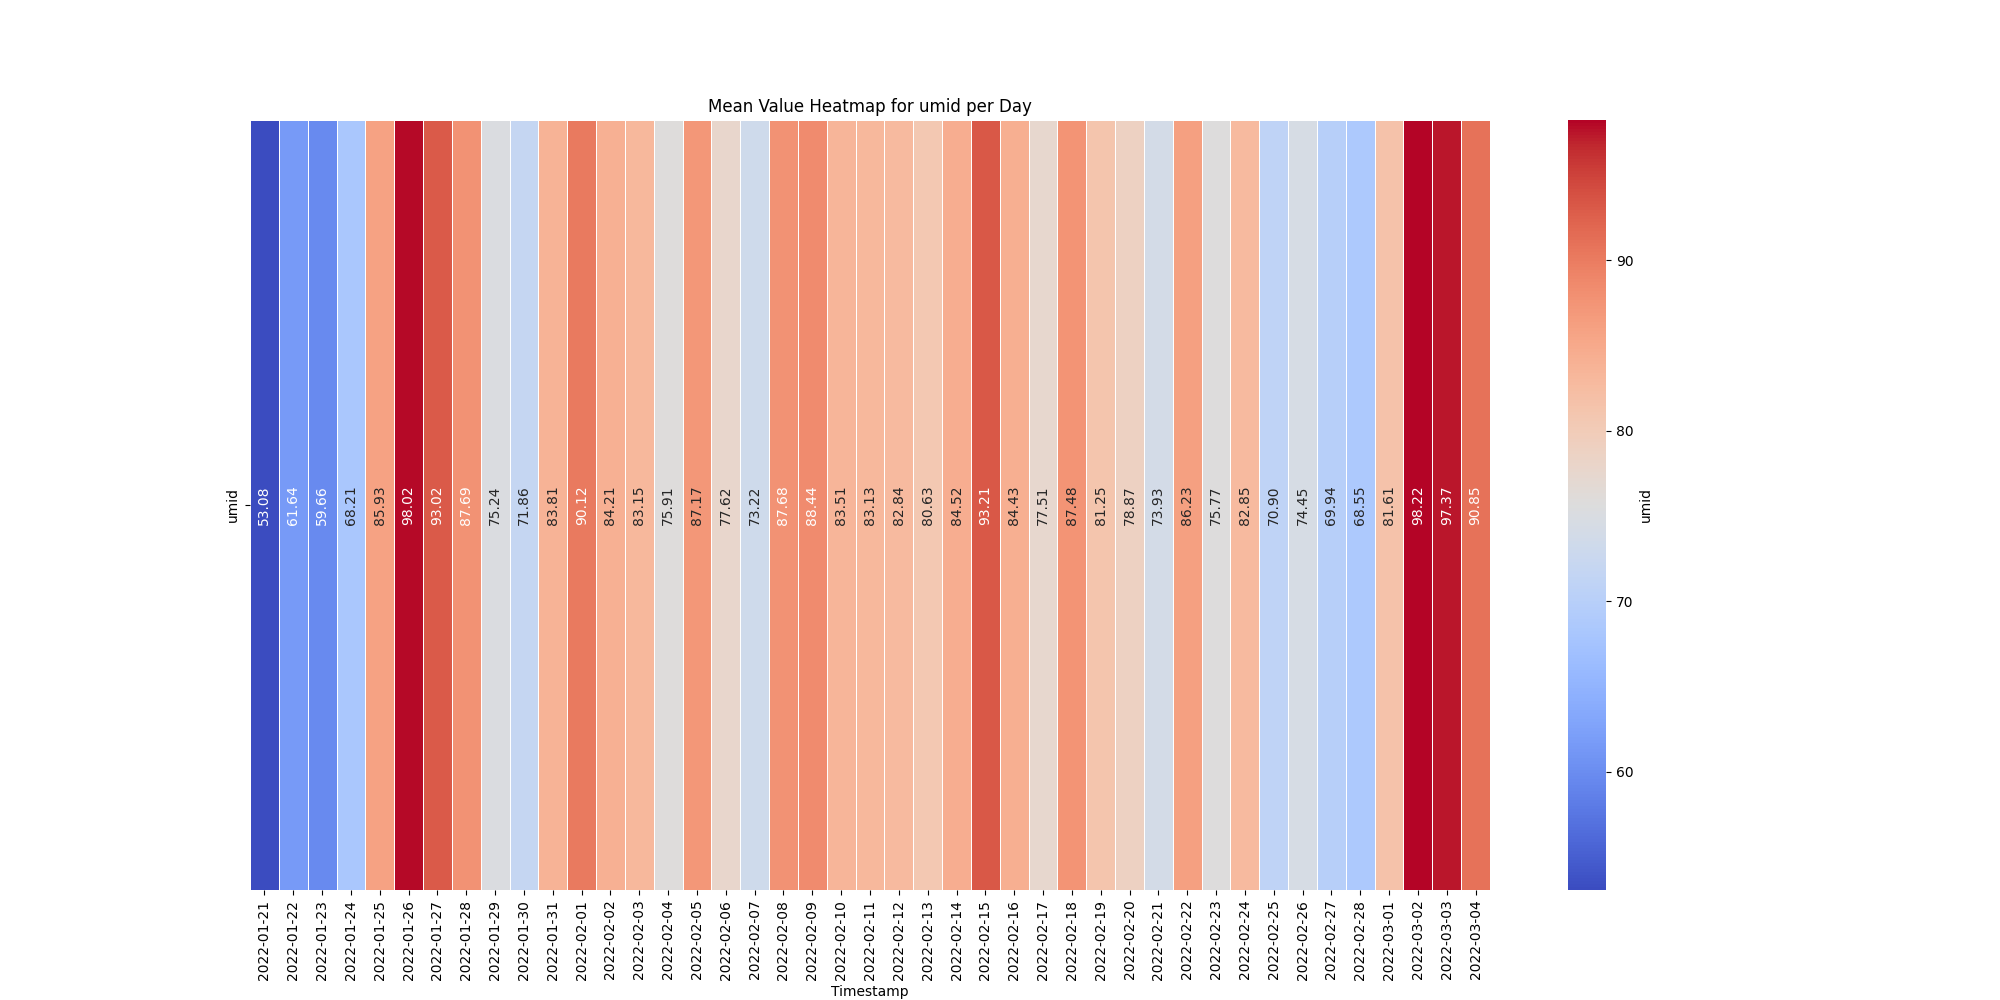
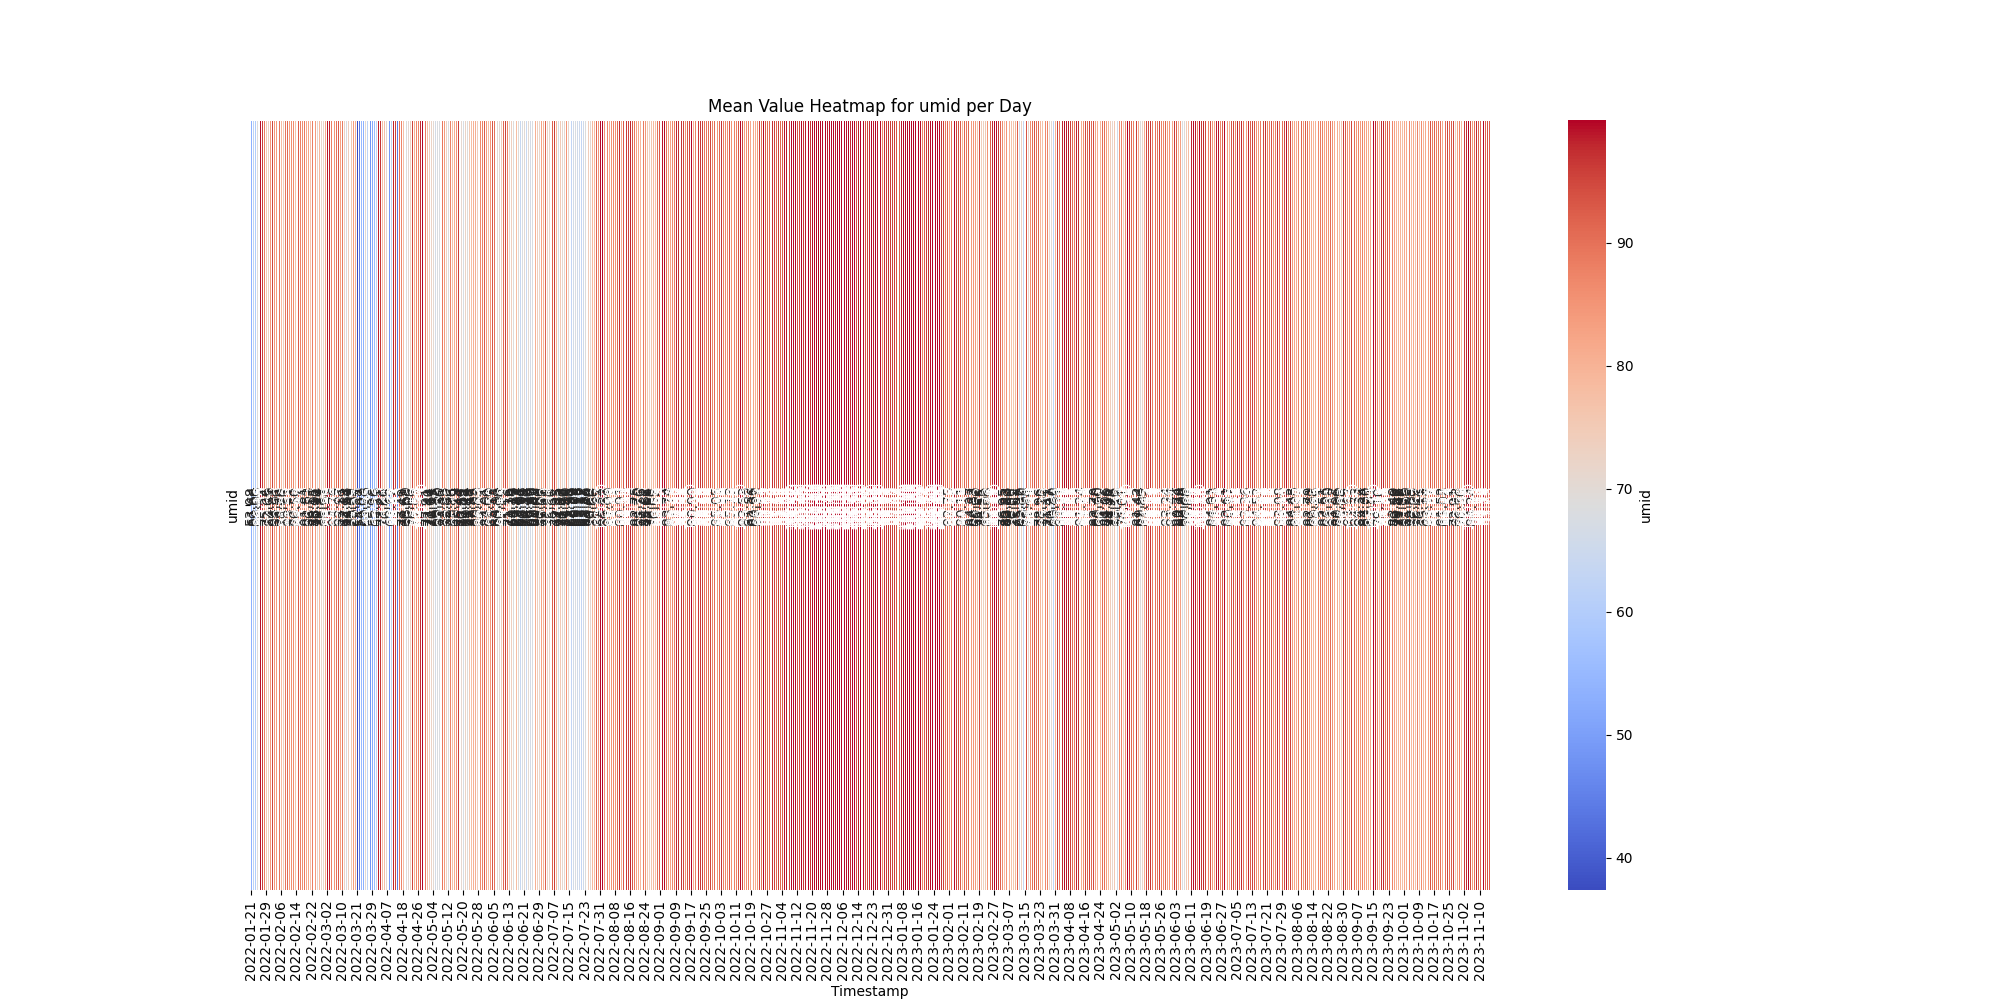
fixed outliers for boxplots, implementet feature selection for all

diff --git a/tema1.py b/tema1.py
@@ -13,7 +13,16 @@ def load_data(file_path):
 def preprocess_data(df):
     # Drop the hours from the Timestamp column
     df['Timestamp'] = df['Timestamp'].dt.date
+    return df
 
+def preprocess_data_IQR(df):
+    # Drop the hours from the Timestamp column
+    df['Timestamp'] = df['Timestamp'].dt.date
+
+    Q1 = df.quantile(0.25)
+    Q3 = df.quantile(0.75)
+    IQR = Q3 - Q1
+    df = df[~((df < (Q1 - 1.5 * IQR)) | (df > (Q3 + 1.5 * IQR))).any(axis=1)]
     return df
 
 
@@ -24,8 +33,7 @@ def calculate_heatmaps(df):
     for param in df.columns:
         if param != 'Timestamp':
             plt.figure(figsize=(20, 10))
-            ax = sns.heatmap(means[[param]].T, cmap='coolwarm', annot=True, fmt=".2f", linewidths=.5,
-                             cbar_kws={'label': param}, annot_kws={'rotation': 0})
+            ax = sns.heatmap(means[[param]].T, cmap='coolwarm', annot=True, fmt=".2f", linewidths=.5, cbar_kws={'label': param}, annot_kws={'rotation': 0})
             plt.title(f'Mean Value Heatmap for {param} per Day')
             for text in ax.texts:
                 text.set_rotation('vertical')
@@ -33,8 +41,7 @@ def calculate_heatmaps(df):
             plt.close()
 
             plt.figure(figsize=(20, 10))
-            ax = sns.heatmap(medians[[param]].T, cmap='coolwarm', annot=True, fmt=".2f", linewidths=.5,
-                             cbar_kws={'label': param}, annot_kws={'rotation': 0})
+            ax = sns.heatmap(medians[[param]].T, cmap='coolwarm', annot=True, fmt=".2f", linewidths=.5, cbar_kws={'label': param}, annot_kws={'rotation': 0})
             plt.title(f'Median Value Heatmap for {param} per Day')
             for text in ax.texts:
                 text.set_rotation('vertical')
@@ -68,66 +75,63 @@ def feature_selection(df, correlation_threshold=0.8):
     return df
 
 
-def calculate_boxplots(df):
+def calculate_boxplots(df, has_outliers=True):
     for param in df.columns:
         if param != 'Timestamp':
-
-            # Continue with the existing code for boxplots
-            Q1 = df[param].quantile(0.25)
-            Q3 = df[param].quantile(0.75)
-            IQR = Q3 - Q1
-            filter_condition = (df[param] >= Q1 - 1.5 * IQR) & (df[param] <= Q3 + 1.5 * IQR)
-            df_no_outliers = df.loc[filter_condition]
-
             plt.figure(figsize=(20, 10))
-            sns.boxplot(x=df_no_outliers[param])
-            plt.title(f'Boxplot for {param} without Outliers (IQR Method)')
+            if has_outliers:
+                sns.boxplot(x=df[param], showfliers=True)
+            else:
+                sns.boxplot(x=df[param], showfliers=False)
+            if has_outliers:
+                plt.title(f'Boxplot for {param} with Outliers')
+            else:
+                plt.title(f'Boxplot for {param} with NO Outliers')
             plt.xlabel(param)
 
-            plt.savefig(os.path.join("./boxplots", f'boxplot_{param}_no_outliers.png'))
+            if has_outliers:
+                plt.savefig(os.path.join("./boxplots", f'boxplot_{param}.png'))
+            else:
+                plt.savefig(os.path.join("./boxplots", f'boxplot_{param}_no_outl.png'))
+
             plt.close()
 
 
-
-
-
-
-
-def calculate_correlation_matrix(df):
+def calculate_correlation_matrix(df, has_correlating_inputs=True):
     numeric_columns = df.select_dtypes(include='number')
 
     corr_matrix = numeric_columns.corr()
-
     output_dir = "./correlation_matrix"
     os.makedirs(output_dir, exist_ok=True)
+    if has_correlating_inputs:
 
-    plt.figure(figsize=(15, 10))
-    sns.heatmap(corr_matrix, annot=True, cmap='coolwarm', fmt=".2f", linewidths=.5,
-                cbar_kws={'label': 'Correlation Coefficient'})
-    plt.title('Correlation Matrix Heatmap')
+        plt.figure(figsize=(15, 10))
+        sns.heatmap(corr_matrix, annot=True, cmap='coolwarm', fmt=".2f", linewidths=.5,
+                    cbar_kws={'label': 'Correlation Coefficient'})
+        plt.title('Correlation Matrix Heatmap')
 
-    output_path = os.path.join(output_dir, 'correlation_heatmap.png')
-    plt.savefig(output_path)
-    plt.close()
+        output_path = os.path.join(output_dir, 'correlation_heatmap_with_correlating_inputs.png')
+        plt.savefig(output_path)
+        plt.close()
+    else:
+        plt.figure(figsize=(15, 10))
+        sns.heatmap(corr_matrix, annot=True, cmap='coolwarm', fmt=".2f", linewidths=.5,
+                    cbar_kws={'label': 'Correlation Coefficient'})
+        plt.title('Correlation Matrix Heatmap')
 
-    direct_correlations = corr_matrix.unstack().sort_values(ascending=False).drop_duplicates()
-    inverse_correlations = corr_matrix.unstack().sort_values(ascending=True).drop_duplicates()
-    #comment these cand vrei sa eliberezi consola
-    # print("Top 5 Direct Correlations:")
-    # print(direct_correlations.head(5))
-    #
-    # print("\nTop 5 Inverse Correlations:")
-    # print(inverse_correlations.head(5))
+        output_path = os.path.join(output_dir, 'correlation_heatmap.png')
+        plt.savefig(output_path)
+        plt.close()
 
 
 if __name__ == '__main__':
-    file_path = "./SensorMLDataset_small.csv"
+    file_path = "./SensorMLDataset.csv"
     df = load_data(file_path)
-    df = preprocess_data(df)
-    df = feature_selection(df, correlation_threshold=0.8)
-    # Save the modified DataFrame to a new CSV file
-    new_csv_path = "./SensorMLDataset_small_modified.csv"
-    df.to_csv(new_csv_path, index=False)
+
+    df = preprocess_data_IQR(df)
+    calculate_correlation_matrix(df, has_correlating_inputs=True)
+    df = feature_selection(df, correlation_threshold=0.80)
+    calculate_correlation_matrix(df, has_correlating_inputs=False)
+    calculate_boxplots(df, False)
     calculate_heatmaps(df)
-    calculate_boxplots(df)
-    calculate_correlation_matrix(df)
+

diff --git a/lstm.py b/lstm.py
@@ -5,11 +5,37 @@ import pandas as pd
 import tensorflow as tf
 from sklearn.metrics import mean_absolute_error
 import os
+
+def feature_selection(df, correlation_threshold=0.8):
+    numeric_columns = df.select_dtypes(include='number')
+    corr_matrix = numeric_columns.corr()
+
+    # Identify parameters with correlations above the threshold
+    high_correlation_pairs = [(col1, col2, corr)
+                              for col1 in corr_matrix.columns
+                              for col2 in corr_matrix.columns
+                              if col1 < col2 and abs(corr := corr_matrix.loc[col1, col2]) > correlation_threshold]
+
+    # Create a set to store variables to drop
+    variables_to_drop = set()
+
+    for col1, col2, _ in high_correlation_pairs:
+        # Add the variable with a higher number of missing values to the set
+        if df[col1].isnull().sum() > df[col2].isnull().sum():
+            variables_to_drop.add(col2)
+        else:
+            variables_to_drop.add(col1)
+
+    # Drop the variables with high correlations and more missing values
+    df.drop(variables_to_drop, axis=1, inplace=True)
+    print(variables_to_drop)
+    return df
 def split_data(file_path):
     # The data is not randomly shuffled:
     # It ensures that chopping the data into windows of consecutive samples is still possible.
 
     df = pd.read_csv(file_path)
+    df=feature_selection(df)
     date_time = pd.to_datetime(df.pop('Timestamp'),format='%m/%d/%Y %H:%M')
     print(df.shape[1]) # number of features (Timestamp is not a fetaure)
     n = len(df)
@@ -203,6 +229,8 @@ if __name__ == '__main__':
     test_df = (test_df - train_mean) / train_std
 
     df = pd.read_csv(file_path)
+
+    df=feature_selection(df)
 
     ### Save the average MAE for every param
     average_mae_per_param = []

diff --git a/prophet_analysis.py b/prophet_analysis.py
@@ -6,7 +6,35 @@ from matplotlib import pyplot as plt
 from sklearn.preprocessing import MinMaxScaler
 import os
 
+
+def feature_selection(df, correlation_threshold=0.8):
+    numeric_columns = df.select_dtypes(include='number')
+    corr_matrix = numeric_columns.corr()
+
+    # Identify parameters with correlations above the threshold
+    high_correlation_pairs = [(col1, col2, corr)
+                              for col1 in corr_matrix.columns
+                              for col2 in corr_matrix.columns
+                              if col1 < col2 and abs(corr := corr_matrix.loc[col1, col2]) > correlation_threshold]
+
+    # Create a set to store variables to drop
+    variables_to_drop = set()
+
+    for col1, col2, _ in high_correlation_pairs:
+        # Add the variable with a higher number of missing values to the set
+        if df[col1].isnull().sum() > df[col2].isnull().sum():
+            variables_to_drop.add(col2)
+        else:
+            variables_to_drop.add(col1)
+
+    # Drop the variables with high correlations and more missing values
+    df.drop(variables_to_drop, axis=1, inplace=True)
+    print(variables_to_drop)
+    return df
+
+
 df = pd.read_csv('SensorMLDataset_small.csv')  # input the path to the CSV file here
+df=feature_selection(df)
 labels = df.columns
 
 
